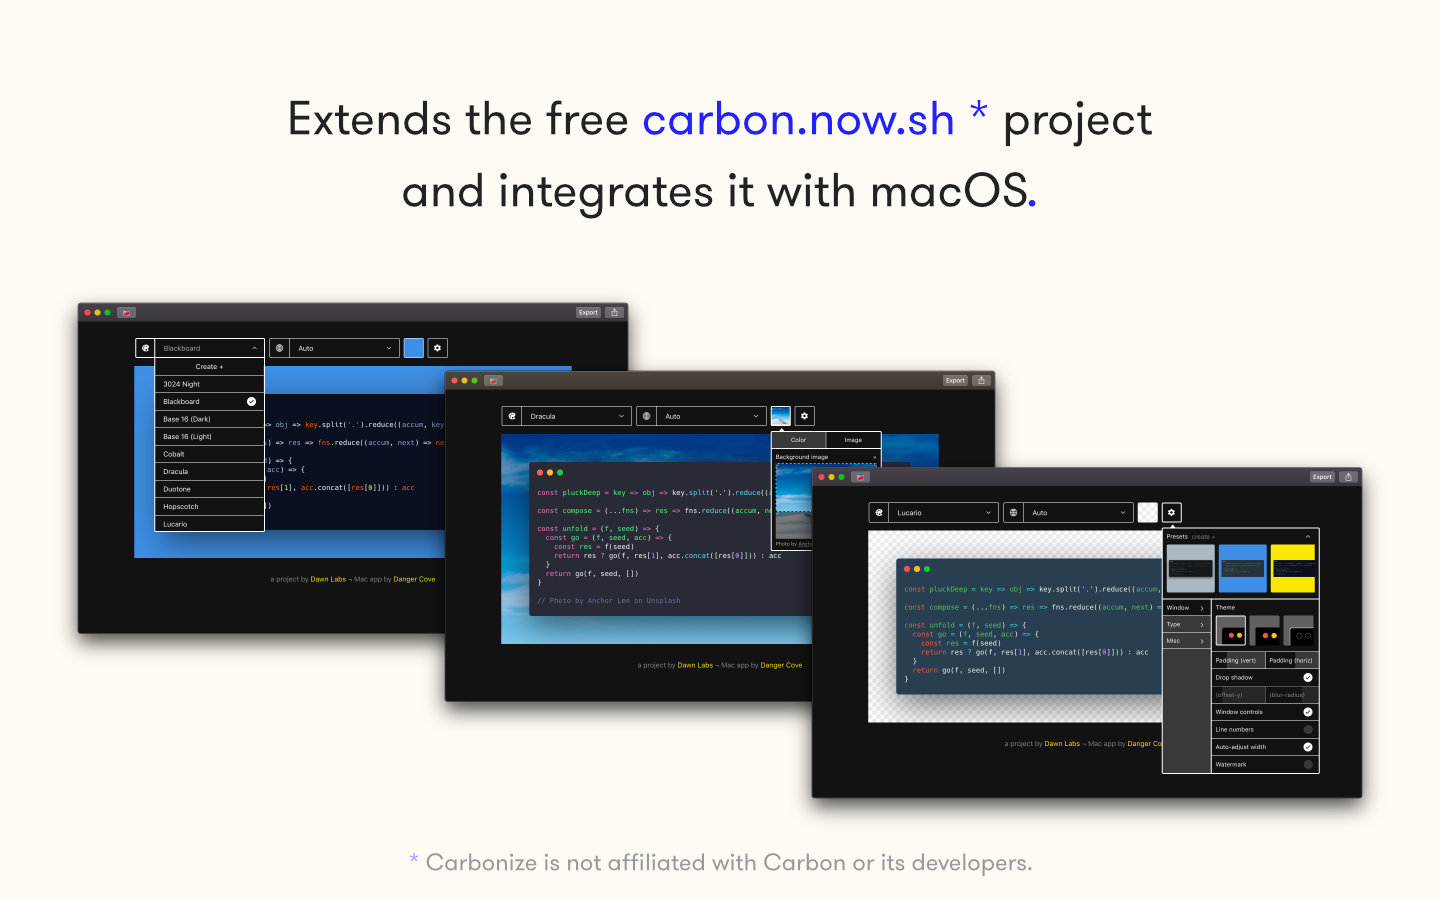
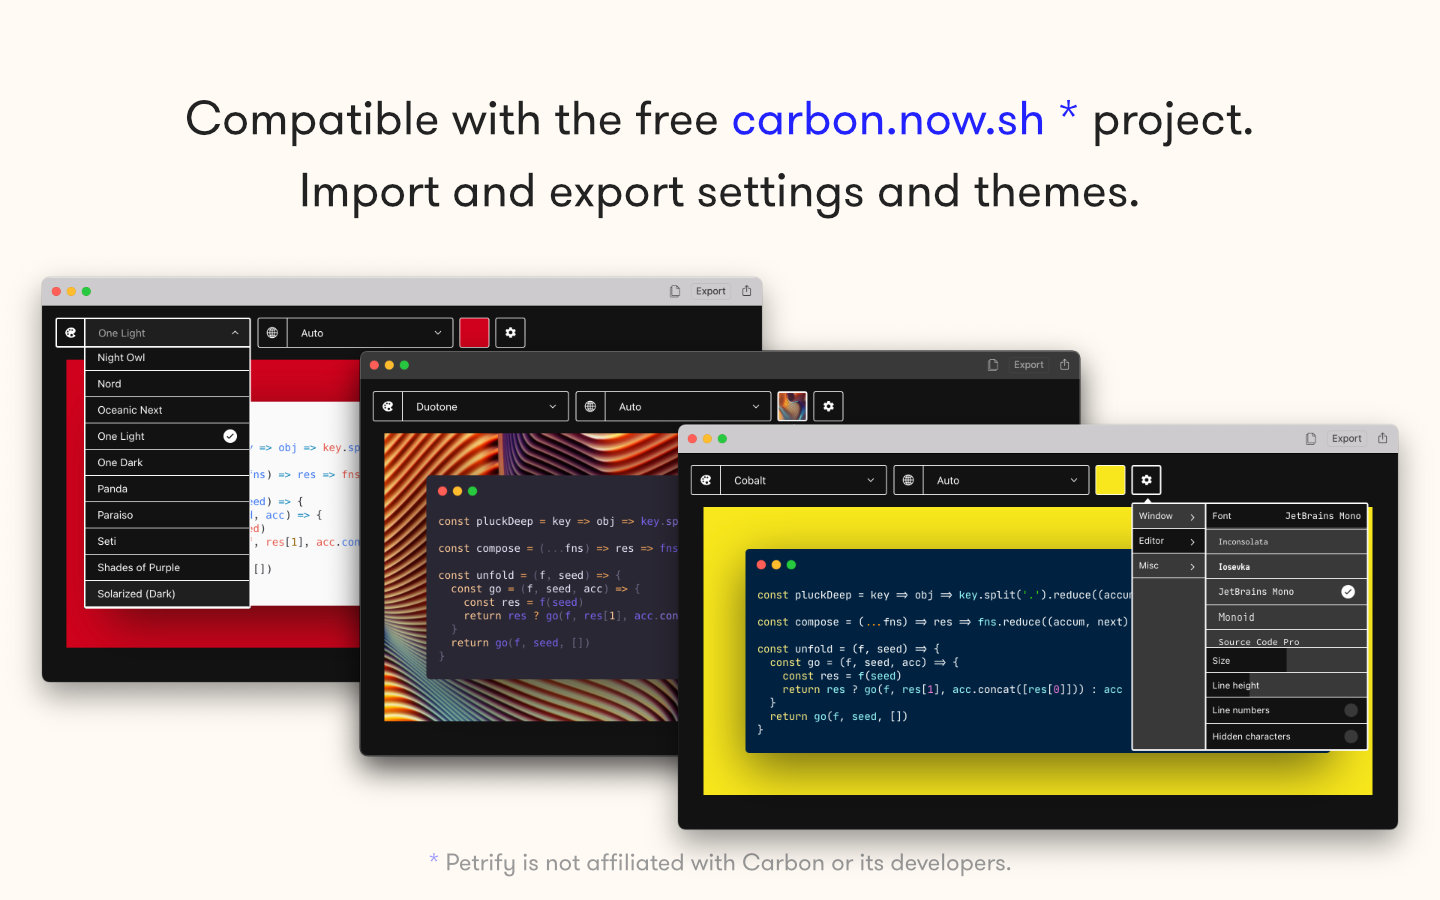
Add info for Petrify launch

diff --git a/petrify.html b/petrify.html
@@ -18,14 +18,14 @@ features:
   - Drag generated images into Finger, apps or social media. Ready to use.
   - Built on top of carbon.now.sh and its editor.
 screenshots:
-  - src: carbonize-Options.jpg
-    alt: "App Store images showing several screenshots of Petrify's editor with caption: Leverages the highly customizable editor of carbon.now.sh"
   - src: carbonize-Copy.jpg
     alt: "App Store image showing a screenshot of the main window with caption: Instantly copy the image to your Clipboard."
   - src: carbonize-Import.jpg
     alt: "App Store image showing how to drag code from another app onto Petrify's Dock icon with caption: Drag code right onto the Dock, or use the Services menu."
   - src: carbonize-Export.jpg
     alt: "App Store image showing several of Petrify's floating export windows with caption: Drag images right into your work, or onto your desktop."
+  - src: carbonize-Options.jpg
+    alt: "App Store images showing several screenshots of Petrify's editor with caption: Leverages the highly customizable editor of carbon.now.sh"
 appstore: /petrify/appstore
 presskit: /petrify/presskit
 tags: [macOS, Development]
@@ -73,6 +73,10 @@ setapp:
   </div>
 </section>
 
+<section class="section is-medium">
+  {% include app/screenshots.html screenshots=page.screenshots %}
+</section>
+
 <section class="section">
   <div class="container">
     <div class="columns">
@@ -93,33 +97,11 @@ setapp:
           <p>Use the editor to customize your images. Pretty much anything can be tweaked.</p>
           <p>Change the font, background color, spacing, theme etc.</p>
           <p>Your settings are saved between sessions. 💾</p>
-          <p>All credits for this go to the original <a href="https://carbon.now.sh">Carbon project</a> that Petrify is an independent extension of. 🙌</p>
-        </div>
-      </div>
-    </div>
-</section>
-
-<section class="section is-medium">
-  {% include app/screenshots.html screenshots=page.screenshots %}
-</section>
-
-<section class="section is-medium has-text-centered has-background-black has-text-white">
-  <div class="columns">
-    <div class="column is-offset-2 is-8">
-      <div class="content">
-        <h2 class="title is-2">Built on top of the amazing <a href="https://carbon.now.sh">Carbon project</a></h2>
-        <p>Petrify uses Carbon's terrific editor and adds native integration with macOS to support drag-and-drop and easy snippet imports.</p>
-      </div>
-      <div class="column is-full">
-        <div class="content">
-          <figure>
-            <img src="/assets/img/app/carbonize-carbon.png" alt="A screenshot of carbon.now.sh running in Safari" style="width: 1496px;">
-          </figure>
+          <p>Credits for this go to <a href="https://carbon.now.sh">the Carbon project</a> that Petrify uses the <a href="https://github.com/dangercove/carbon">open-source editor</a> of. 🙌</p>
           <p><small><em>Petrify is not affiliated with Carbon or its developers in any way. You can use Carbon for free on <a href="https://carbon.now.sh">carbon.now.sh</a>.</em></small></p>
         </div>
       </div>
     </div>
-  </div>
 </section>
 
 <section class="section is-medium">

diff --git a/_posts/2020-12-03-petrify-36.md b/_posts/2020-12-03-petrify-36.md
@@ -1,0 +1,30 @@
+---
+layout: post
+title: "Carbonize is now Petrify and works completely offline"
+date: 2020-12-03
+tags: [petrify, updates]
+description: "Carbonize has been renamed to Petrify and works offline from the moment you start it."
+setapp:
+  vendor: 276
+  app: 417
+  campaign: dangercove_2020-12-03-carbonize-setapp
+---
+
+Version 2020.5 is the biggest update to ~~Carbonize~~ **Petrify** since it launched! With the new name comes an editor that works completely offline.
+
+### Changed
+
+* Carbonize is now **Petrify**.
+* The editor works completely **offline**.
+* The design of the editor better fits the application window.
+
+Note: if you want to migrate your settings and themes to the updated editor, use the Migrator in Preferences.
+
+### Added
+
+* A migrator to move settings and themes from the previous, online editor over to the new offline version.
+
+### Removed
+
+* Unsplash background images. The updated, offline editor currently does not support automatic images through Unsplash.
+* Adding a background image through a link.

diff --git a/_posts/2019-02-12-introducing-carbonize.md b/_posts/2019-02-12-introducing-carbonize.md
@@ -44,12 +44,5 @@ Carbonize uses Carbon for its terrific editor and adds native integration with m
 
 Danger Cove and Carbonize are not associated with Dawn Labs in any way.
 
-## Free software 🌴
-Relax is free to use. Consider using the Tip Jar in the app to support its development.
-
-[Get Carbonize](/carbonize) for free.
-
-![A screensot of Carbonize's tip jar screen](/assets/img/app/carbonize-tip-jar@2x.png)
-
 ## Press 🌐
 More information, screenshots and icons are available in the Press Kit. [Get the Press Kit here](/carbonize/presskit).

diff --git a/_posts/2020-09-20-carbonize-29.md b/_posts/2020-09-20-carbonize-29.md
@@ -1,0 +1,15 @@
+---
+layout: post
+title: "Carbonize v2020.4 is out now"
+date: 2020-09-20
+tags: [petrify, updates]
+description: "This release adds a dedicated copy button."
+setapp:
+  vendor: 276
+  app: 417
+  campaign: dangercove_2020-09-20-carbonize-setapp
+---
+
+This release adds a dedicated copy button in the menu bar.
+
+You can [get Carbonize on the Mac App Store](/carbonize/appstore) or through [Setapp](/carbonize/setapp).

diff --git a/_posts/2020-09-14-carbonize-28.md b/_posts/2020-09-14-carbonize-28.md
@@ -7,7 +7,7 @@ description: "This release fixes configuration importing and exporting and custo
 setapp:
   vendor: 276
   app: 417
-  campaign: dangercove_2020-09-03-carbonize-setapp
+  campaign: dangercove_2020-09-14-carbonize-setapp
 ---
 
 This release fixes the file picker dialog, restoring support for importing & exporting configurations and uploading custom fonts!
